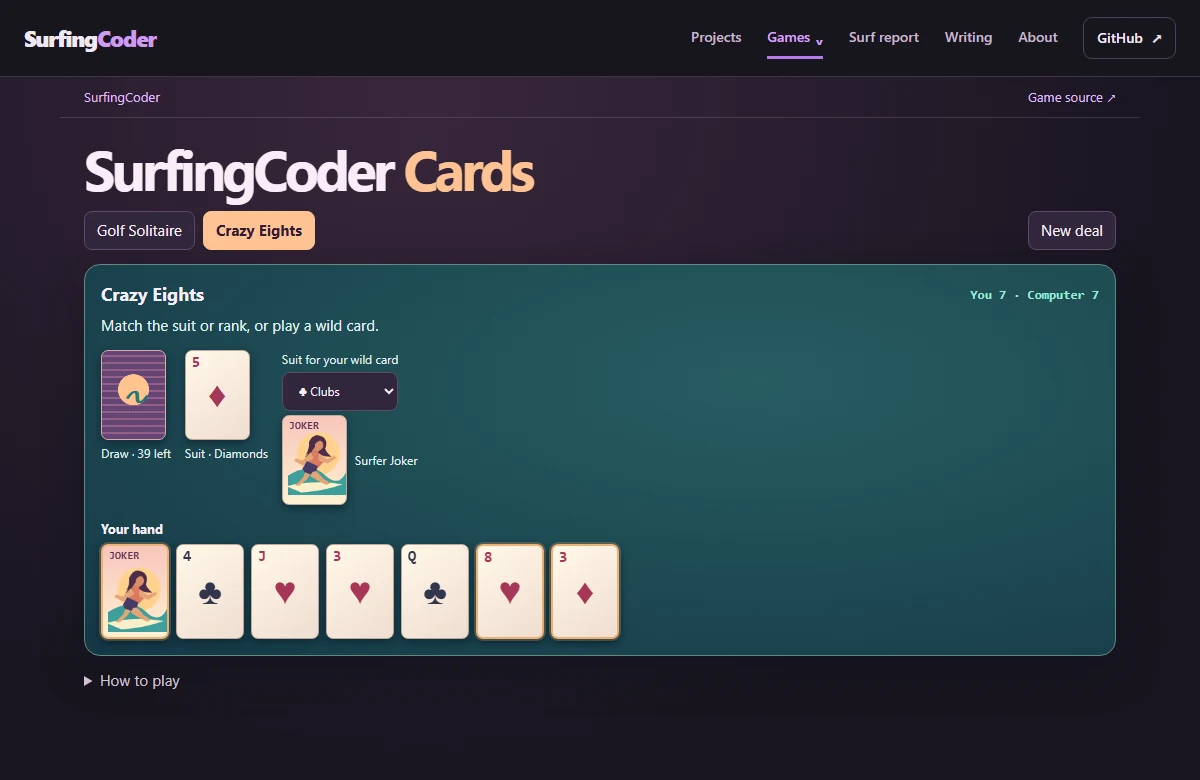
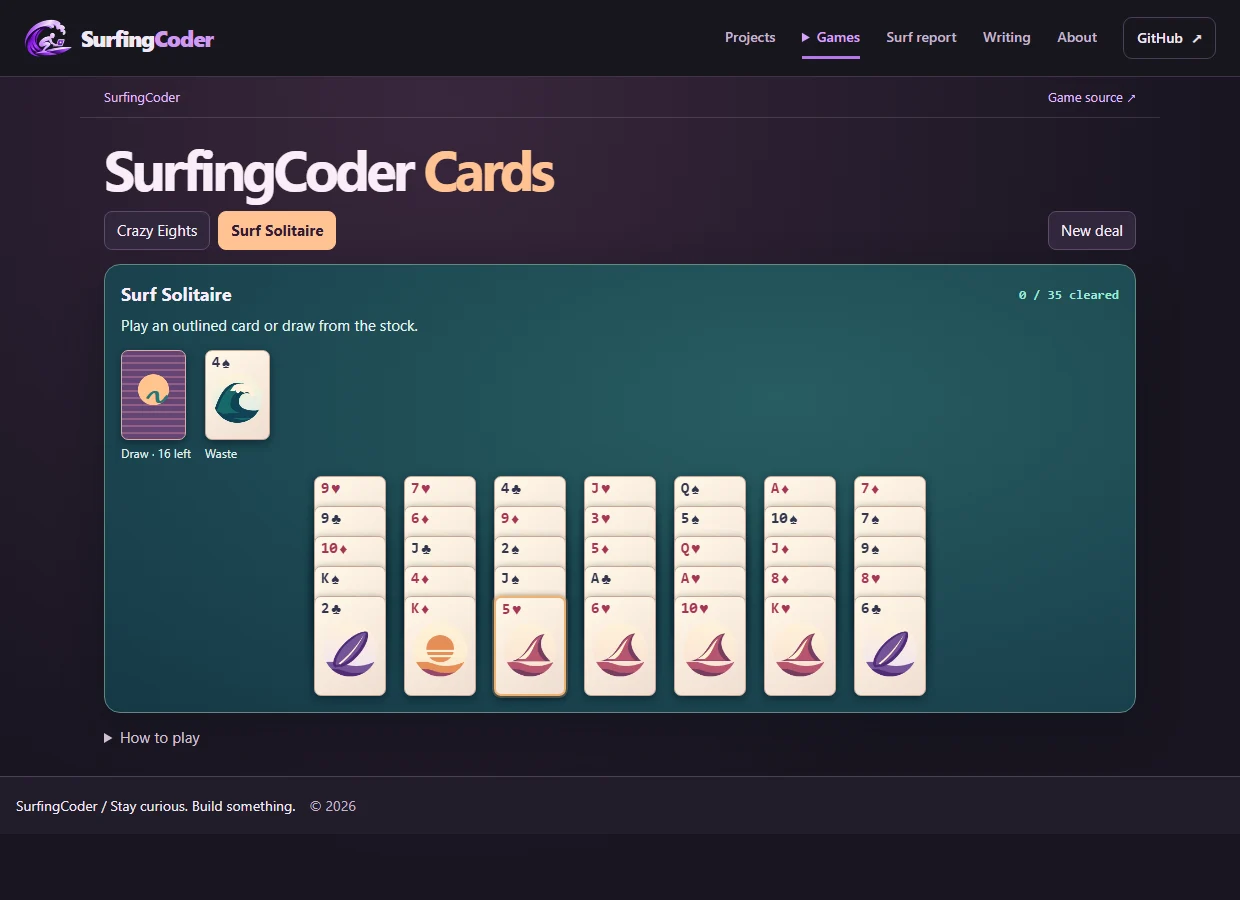
Introduce Surf Solitaire and illustrated surf cards

diff --git a/surf-art.js b/surf-art.js
@@ -1,0 +1,47 @@
+const theme = {
+  spades:['#d7ecea','#176869','#0f4355'],
+  hearts:['#f8dfd4','#b75670','#753c60'],
+  clubs:['#eee1f5','#745398','#512b75'],
+  diamonds:['#fae7c9','#e58e57','#94486c'],
+}
+
+function shape(ctx,ink,path) {
+  ctx.fillStyle = ink
+  ctx.fill(new Path2D(path))
+}
+
+export function drawSurfSuit(suit) {
+  const canvas = document.createElement('canvas')
+  canvas.width = canvas.height = 112
+  canvas.className = 'surf-art'
+  canvas.setAttribute('aria-hidden','true')
+  const ctx = canvas.getContext('2d')
+  const [paper,accent,deep] = theme[suit]
+  const glow = ctx.createLinearGradient(0,5,0,108)
+  glow.addColorStop(0,'#fff3d8')
+  glow.addColorStop(1,paper)
+  ctx.fillStyle = glow
+  ctx.beginPath();ctx.arc(56,56,49,0,Math.PI*2);ctx.fill()
+  ctx.save();ctx.clip()
+  shape(ctx,accent,'M0 82 Q24 74 45 82 T90 82 Q103 76 112 77 V112 H0 Z')
+  shape(ctx,deep,'M0 95 Q24 87 45 95 T90 95 Q102 88 112 89 V112 H0 Z')
+  if (suit === 'spades') {
+    shape(ctx,deep,'M10 81 C21 45 37 20 65 26 C84 30 89 40 88 52 C79 42 64 44 60 57 C55 75 73 83 103 80 L103 95 L10 95 Z')
+    shape(ctx,accent,'M15 82 C27 43 46 23 65 26 C78 28 86 36 89 45 C67 33 47 41 43 63 C40 75 48 81 61 85 L28 87 Z')
+    shape(ctx,'#fff3dc','M50 30 C67 21 86 30 91 44 C93 50 87 56 83 50 C78 44 78 42 73 44 C69 47 66 42 62 42 C57 49 53 45 54 40 C47 42 43 42 42 40 Z')
+  } else if (suit === 'hearts') {
+    shape(ctx,deep,'M20 77 C56 70 52 29 83 26 C71 41 75 58 94 77 Z')
+    shape(ctx,accent,'M30 76 C57 62 56 34 79 28 C66 45 67 63 84 76 Z')
+    shape(ctx,'#fff1d1','M33 73 C55 61 60 42 70 36 C62 48 59 65 46 73 Z')
+  } else if (suit === 'clubs') {
+    shape(ctx,deep,'M33 88 C19 92 25 67 41 49 C58 29 79 20 87 23 C92 34 81 57 65 72 C55 82 42 89 33 88 Z')
+    shape(ctx,accent,'M33 84 C26 86 31 68 44 51 C60 34 76 24 84 25 C84 37 74 55 62 67 C53 77 42 82 33 84 Z')
+    shape(ctx,'#fff1d1','M35 81 Q59 63 81 28 Q65 61 38 83 Z')
+  } else {
+    ctx.fillStyle = accent
+    ctx.beginPath();ctx.arc(56,54,25,0,Math.PI*2);ctx.fill()
+    shape(ctx,'#fff2d5','M0 56 H112 V60 H0 Z M0 66 H112 V70 H0 Z')
+  }
+  ctx.restore()
+  return canvas
+}

diff --git a/game.js b/game.js
@@ -1,12 +1,13 @@
 import { SUITS, ranks, suitInfo, describe, newGolf, canGolf, moveGolf, drawGolf,
   newEights, canEights, moveEights, drawEights } from './rules.js'
 import { drawJoker } from './joker.js'
+import { drawSurfSuit } from './surf-art.js'
 
 const get = id => document.getElementById(id)
 const board = get('board')
 const games = {
   golf: {
-    title:'Golf Solitaire', create:newGolf,
+    title:'Surf Solitaire', create:newGolf,
     help:'Clear all seven columns. Play any exposed card one rank higher or lower than the waste. Ace and King do not connect. Draw from the stock when you need a new waste card.',
   },
   eights: {
@@ -41,7 +42,10 @@ function cardView(card, action, playable = false, label) {
     item.append(element('span','corner','JOKER'), drawJoker())
   } else {
     item.classList.toggle('red',card.suit === 'hearts' || card.suit === 'diamonds')
-    item.append(element('span','corner',ranks[card.rank]),element('span','suit',suitInfo(card.suit).mark))
+    const corner = element('span','corner rank-suit')
+    corner.append(element('span','',ranks[card.rank]),element('span','suit-pip',suitInfo(card.suit).mark))
+    corner.setAttribute('aria-hidden','true')
+    item.append(drawSurfSuit(card.suit),corner)
   }
   return item
 }
@@ -80,7 +84,7 @@ function golfBoard(game) {
   })
   board.append(piles,columns)
   get('score').textContent = `${game.moved} / 35 cleared`
-  return game.status === 'won' ? 'You cleared the table.' : game.status === 'lost'
+  return game.status === 'won' ? 'You cleared the lineup.' : game.status === 'lost'
     ? 'No moves left. Deal again to try a new table.' : 'Play an outlined card or draw from the stock.'
 }
 

diff --git a/style.css b/style.css
@@ -33,6 +33,9 @@ h2 { margin:0; font-size:18px; }
 .card.playable { border:2px solid #edb275; box-shadow:0 0 0 2px #edb27545,0 3px 8px #071b28; }
 .card.playable:hover { background:#fff4c7; }
 .card .corner { position:absolute; top:4px; left:6px; font:750 clamp(10px,1.9vw,15px)/1 "IBM Plex Mono",Consolas,monospace; }
+.card .rank-suit { display:flex; align-items:center; gap:2px; }
+.card .suit-pip { font:700 1em/1 Georgia,serif; }
+.surf-art { position:absolute; width:88%; height:auto; top:54%; left:50%; transform:translate(-50%,-50%); }
 .card .suit { position:absolute; inset:0; display:grid; place-items:center; font:700 clamp(17px,3.5vw,36px)/1 Georgia,serif; }
 .card.back { border-color:#e0a9a6; background:radial-gradient(circle at 50% 44%,#ffc38e 0 26%,transparent 27%),repeating-linear-gradient(0deg,#644574 0 5px,#935f86 5px 7px); color:#fff0c9; }
 .card.back .suit { color:#247876; font-size:34px; font-style:italic; }
@@ -56,7 +59,8 @@ h2 { margin:0; font-size:18px; }
   .app-bar,main { padding-inline:12px; }
   .table { padding:9px; }
   .columns { gap:5px; }
-  .column .card + .card { margin-top:clamp(-55px,calc(-10vw + 9px),-23px); }
+  .column .card + .card { margin-top:calc(clamp(15px,4vw,23px) - (100cqw / .72)); }
+  .column { container-type:inline-size; }
   .card .corner { left:3px; }
   .modes { gap:4px; }
   .modes button { font-size:13px; padding-inline:7px; }

diff --git a/index.html b/index.html
@@ -3,10 +3,10 @@
 <head>
   <meta charset="utf-8">
   <meta name="viewport" content="width=device-width,initial-scale=1">
-  <meta name="description" content="Play Golf Solitaire solo or Crazy Eights against the computer at the SurfingCoder card table.">
+  <meta name="description" content="Play Surf Solitaire solo or Crazy Eights against the computer at the SurfingCoder card table.">
   <title>SurfingCoder Cards</title>
-  <link rel="stylesheet" href="style.css">
-  <script type="module" src="game.js?v=eights-cards-left"></script>
+  <link rel="stylesheet" href="style.css?v=surf-solitaire">
+  <script type="module" src="game.js?v=surf-solitaire"></script>
 </head>
 <body>
   <div class="app-bar"><a href="https://surfingcoder.com/">SurfingCoder</a><a href="https://github.com/netcodermike/surfingcoder-cards">Game source ↗</a></div>
@@ -14,7 +14,7 @@
     <h1>SurfingCoder <em>Cards</em></h1>
     <div class="modes" aria-label="Choose a card game" role="group">
       <button id="eights" aria-pressed="true">Crazy Eights</button>
-      <button id="golf" aria-pressed="false">Golf Solitaire</button>
+      <button id="golf" aria-pressed="false">Surf Solitaire</button>
       <button id="deal">New deal</button>
     </div>
     <section class="table" aria-label="Card table">

diff --git a/README.md b/README.md
@@ -1,14 +1,14 @@
 # SurfingCoder Cards
 
-Play Golf Solitaire solo or face the computer in Crazy Eights. Both games use a surf-themed card table. In Crazy Eights, two long-haired surfer Jokers join the eights as wild cards.
+Play Surf Solitaire solo or face the computer in Crazy Eights. Both games feature wave, fin, surfboard, and sunset illustrations on the cards. Standard suit symbols and ranks appear in each corner. In Crazy Eights, two long-haired surfer Jokers join the eights as wild cards.
 
 [Play SurfingCoder Cards](https://surfingcoder.com/cards/)
 
-![Crazy Eights with an illustrated surfer Joker in the player's hand](docs/table.webp)
+![Surf Solitaire with the illustrated surf deck](docs/table.webp)
 
 ## Rules
 
-- **Golf Solitaire.** Clear the seven columns by playing an exposed card one rank away from the waste card. Aces and kings do not wrap. Draw from the stock when you need a new waste card.
+- **Surf Solitaire.** Uses Golf Solitaire rules. Clear the seven columns by playing an exposed card one rank away from the waste card. Aces and kings do not wrap. Draw from the stock when you need a new waste card.
 - **Crazy Eights.** Match the current suit or top rank, or play a wild card and choose the next suit. Draw once when you cannot play. The discard pile is recycled when needed. If neither player can play or draw, the smaller hand wins.
 
 ## Run locally
